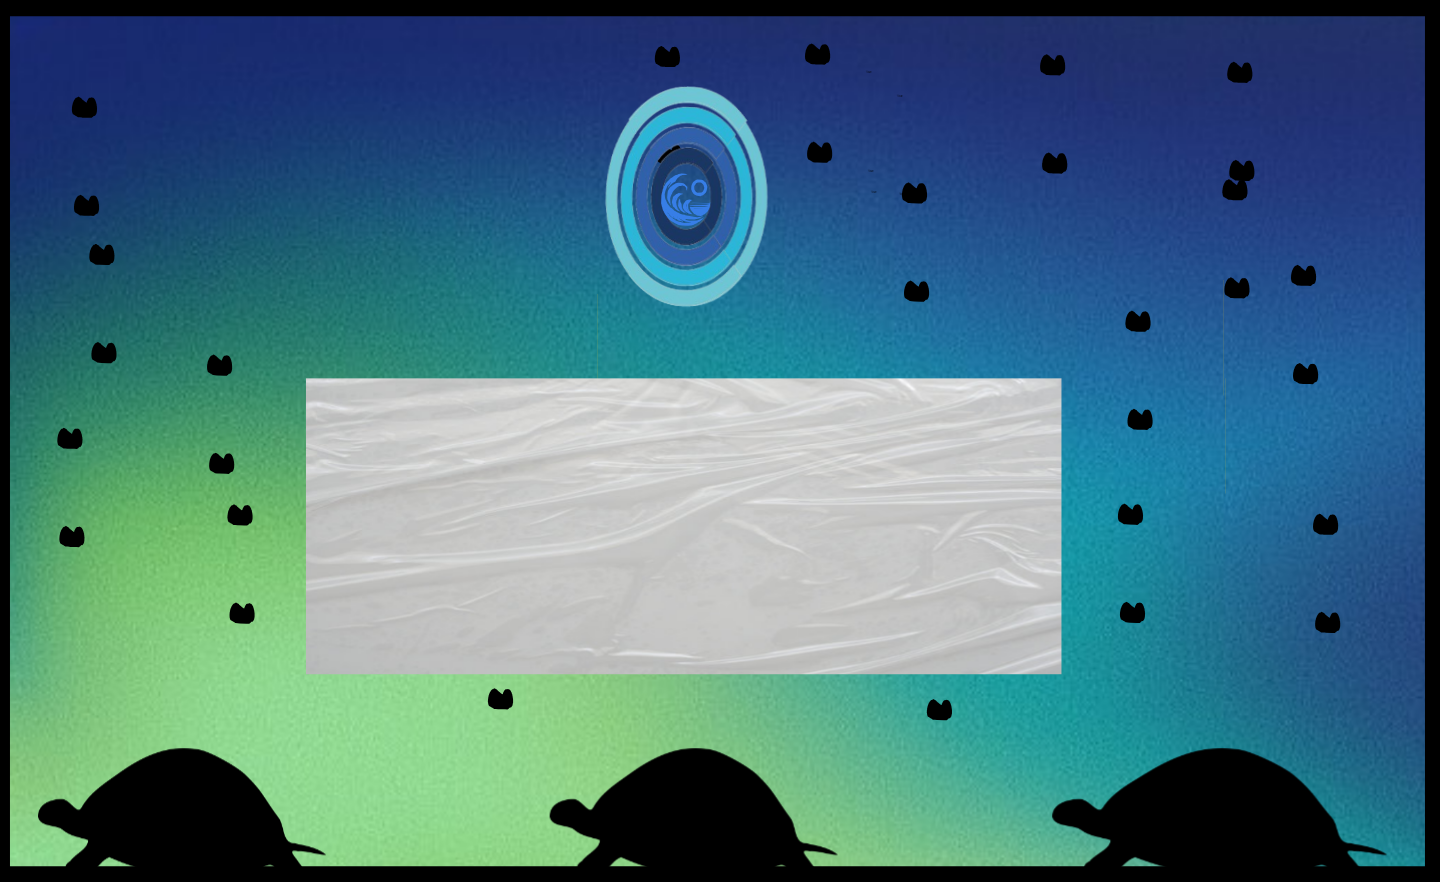
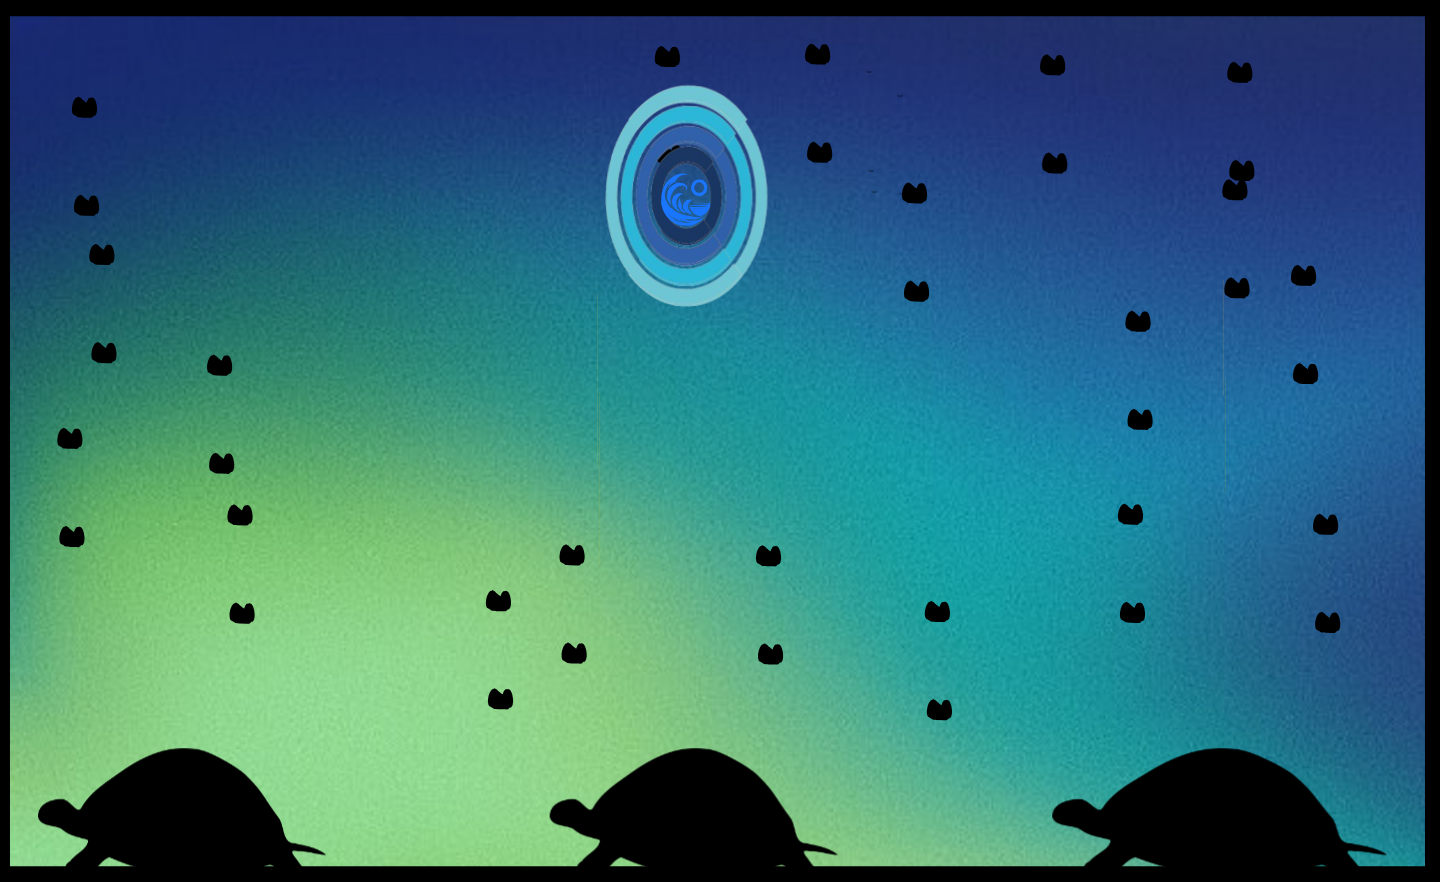
1st kinda try very basic :)

diff --git a/style.css b/style.css
@@ -5,3 +5,30 @@ body {
   background-attachment: fixed
 
 }
+
+
+<html>
+<head>
+<style>
+    {
+  width: 46px;
+  height: 44px;
+  background-image: url("pleh/Autosaved.png");
+  background-position: 0 0;
+}
+</style>
+</head>
+<body>
+
+<img id="plastic" src="pleh/Autosaved.png" width="1" height="1">
+
+</body>
+</html>
+
+
+
+
+
+
+
+

diff --git a/index.html b/index.html
@@ -45,7 +45,6 @@ ul li a:hover {
 <body>
 <h3> </h3>
 
-
 <ul>
   <li><a href="#homepage">Homepage</a></li>
   <li><a href="#Learn more">Learn more</a></li>
@@ -53,3 +52,6 @@ ul li a:hover {
   <li><a href="#Donation">Donation</a></li>
 
 </ul>
+
+
+